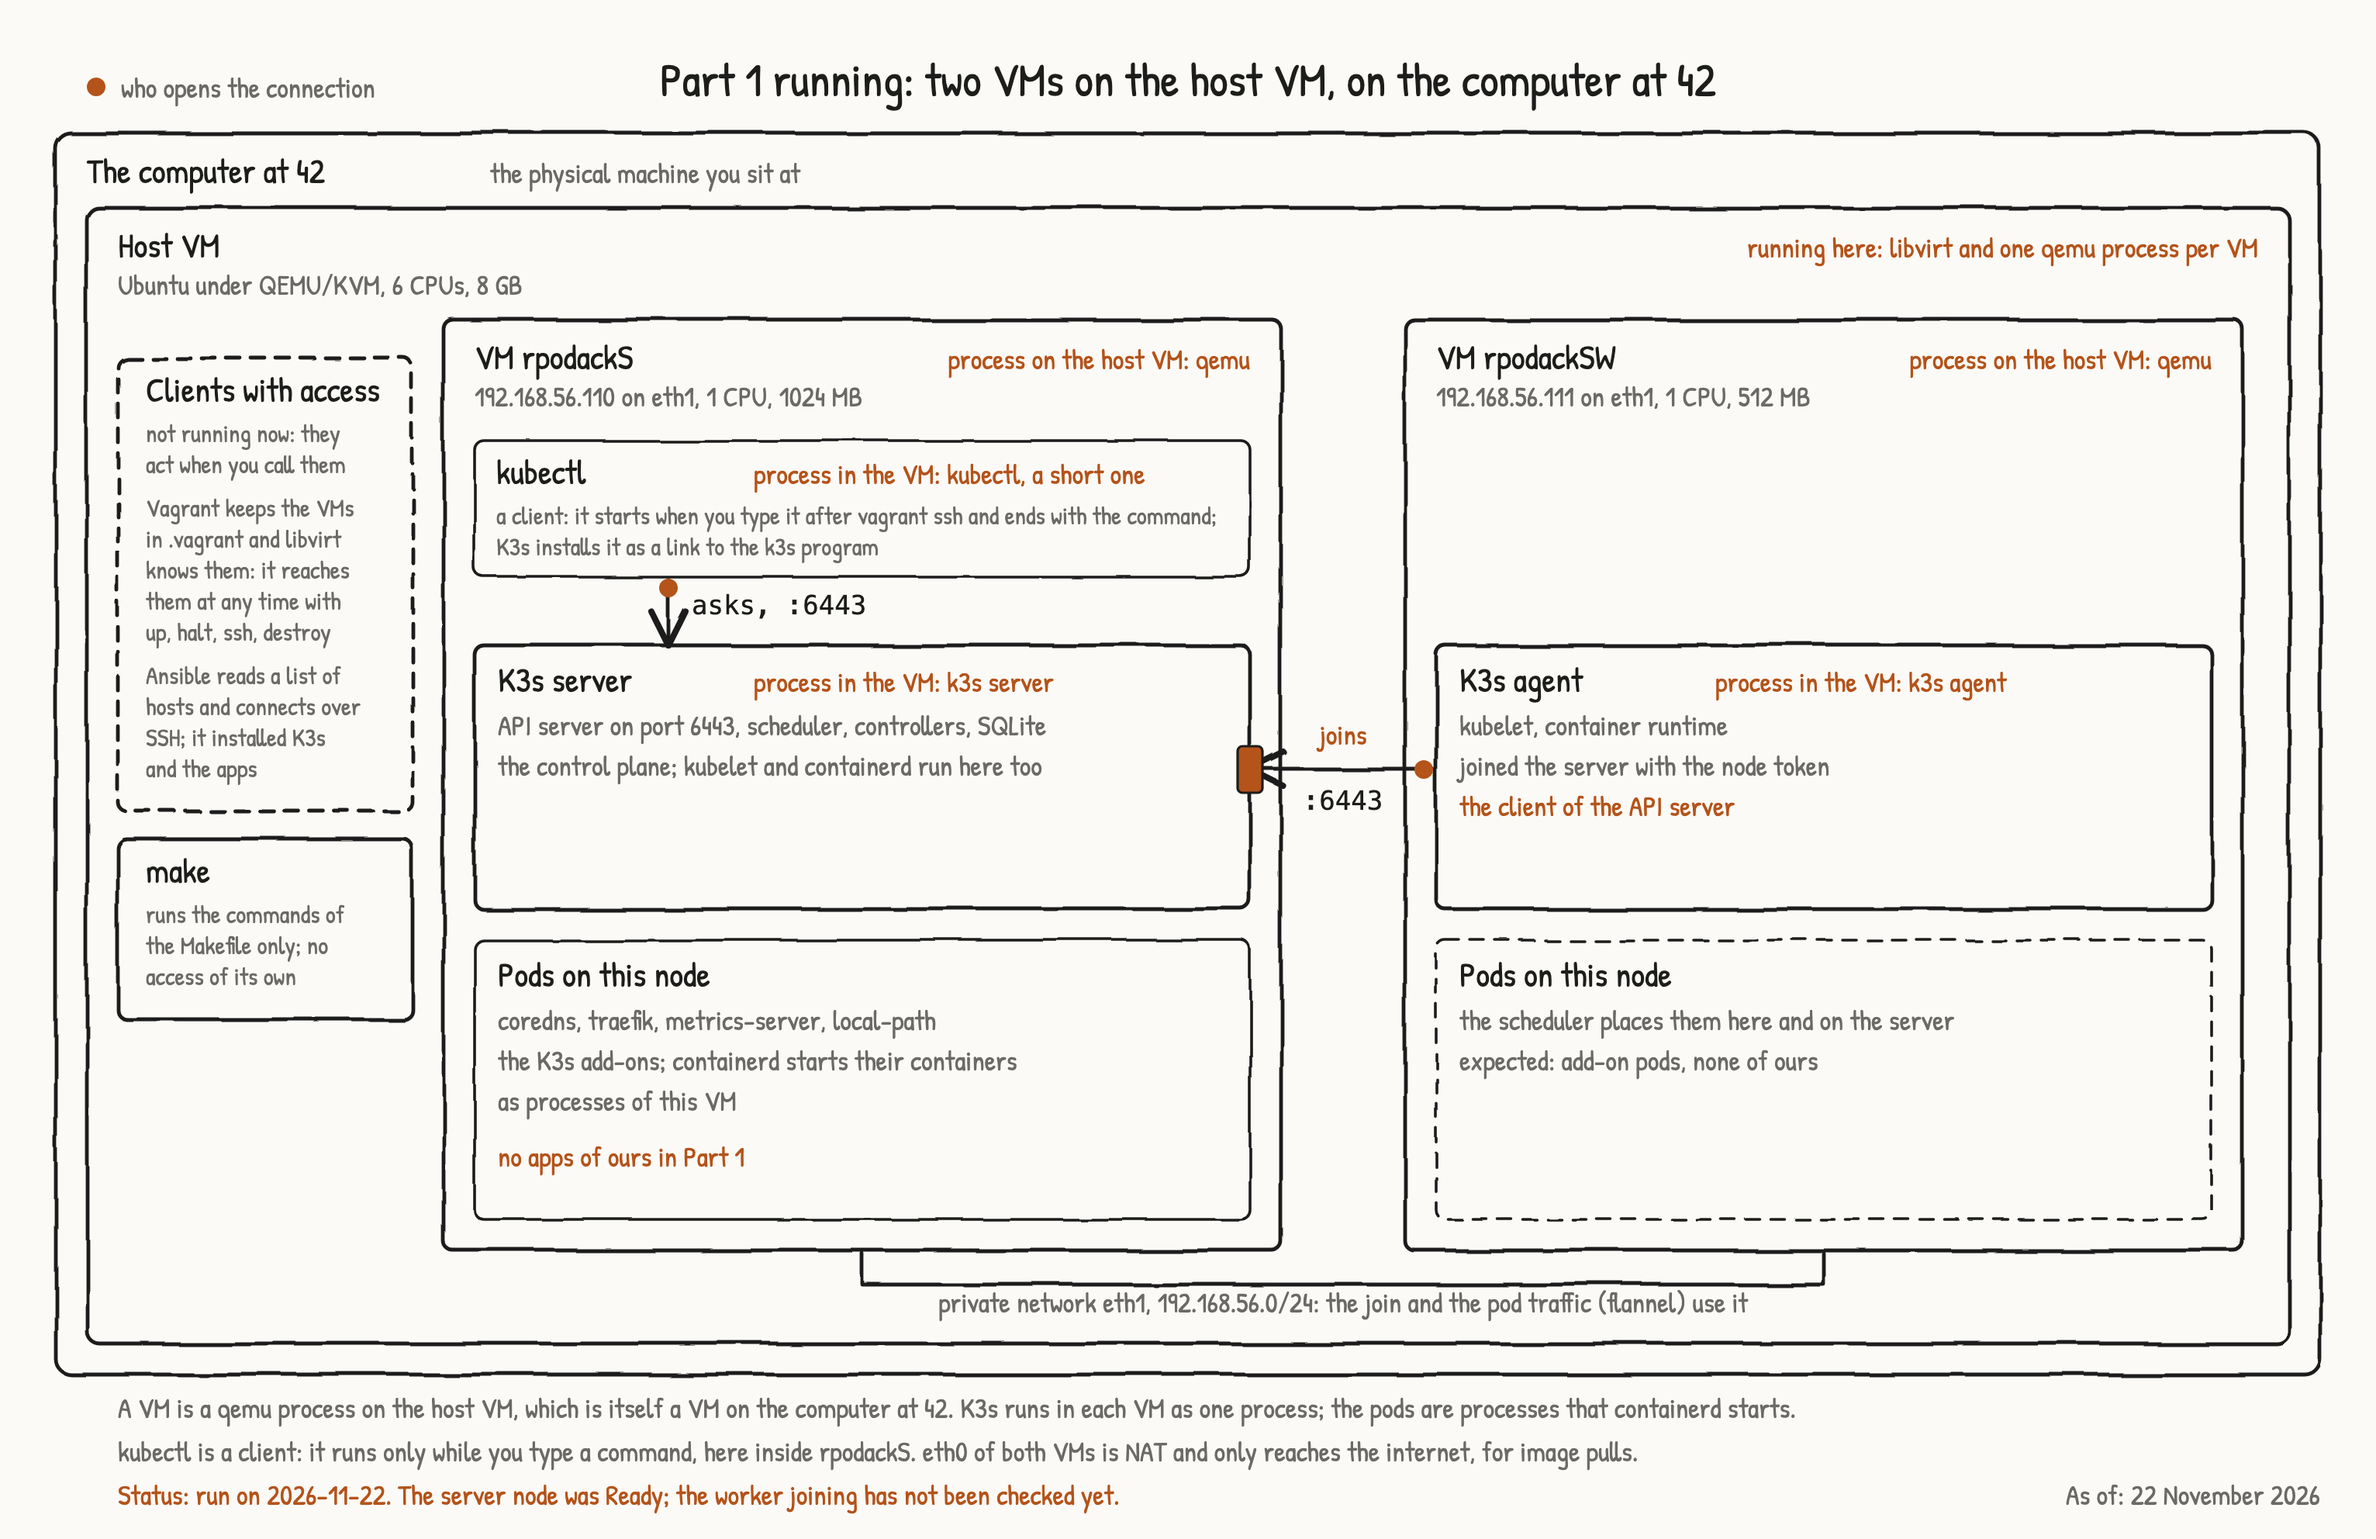
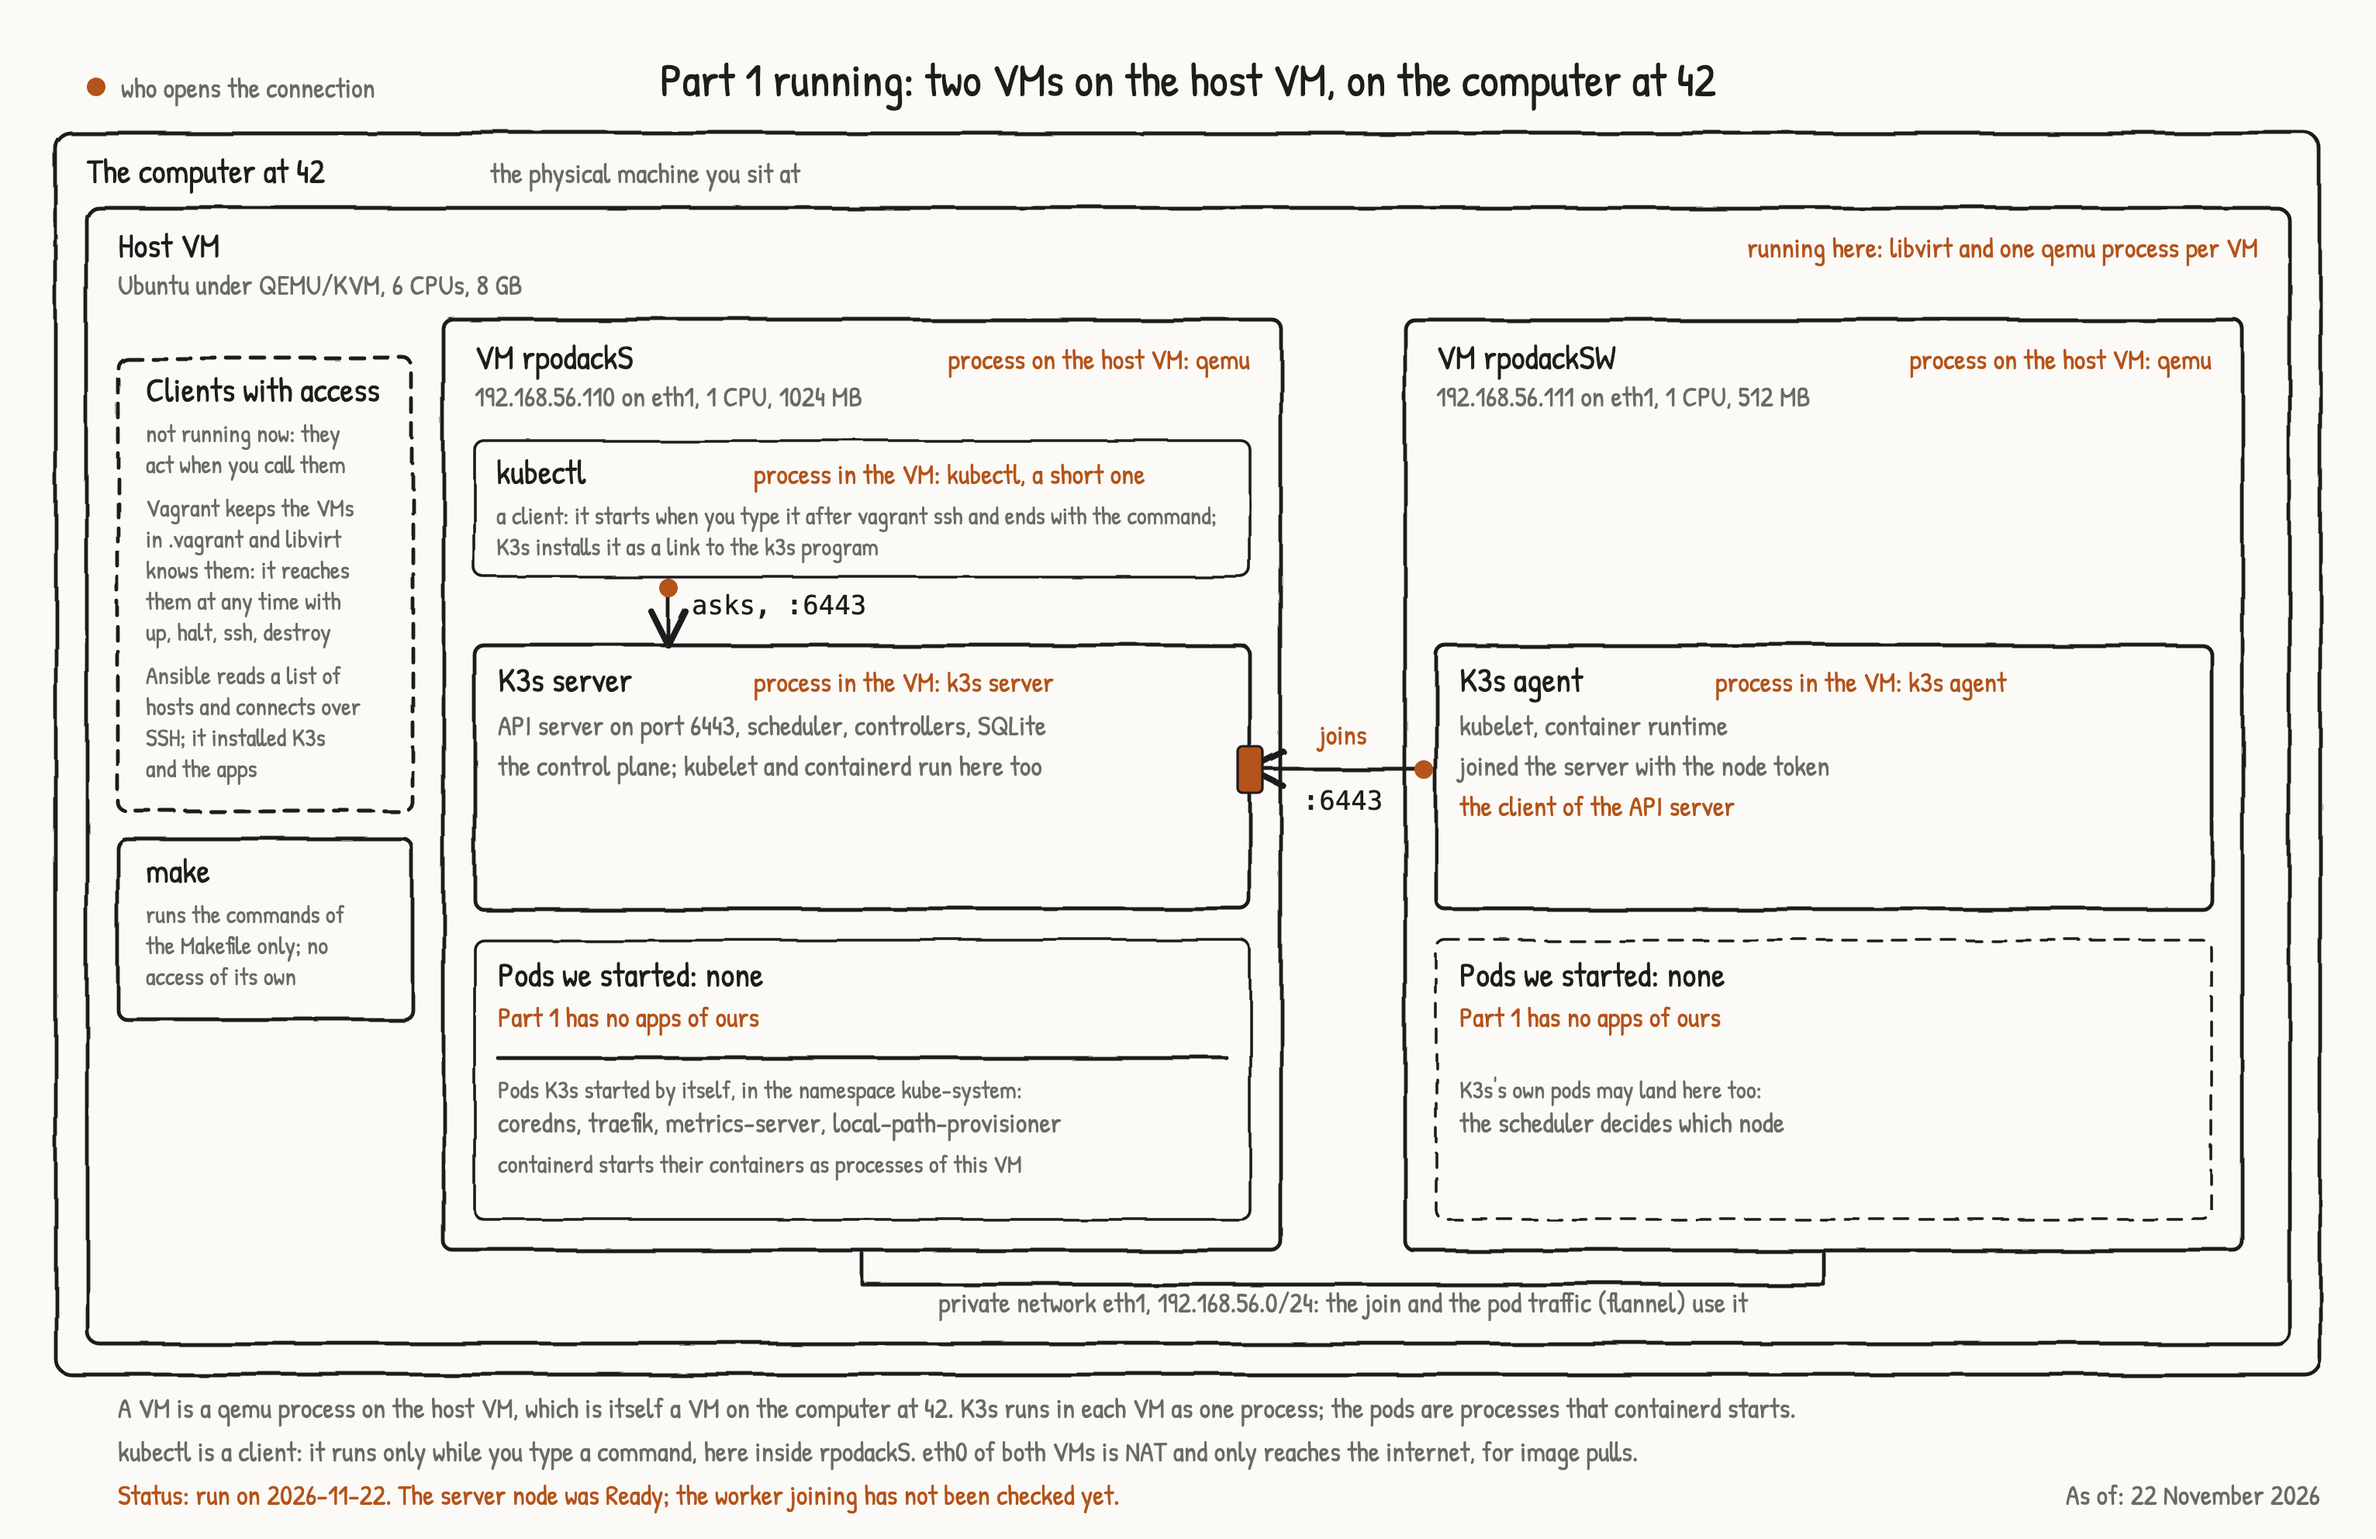
docs(deck): part 1 shows no pods of ours, the K3s pods apart

Changed region(s): [[0.217, 0.625, 0.4341, 0.7812], [0.6201, 0.625, 0.8061, 0.75]]

diff --git a/docs/lab/nesting/src/p1-running-sketch.html b/docs/lab/nesting/src/p1-running-sketch.html
@@ -59,6 +59,7 @@
     <rect x="290" y="268" width="500" height="88" rx="6" class="thin fill"/>
     <rect x="290" y="400" width="500" height="170" rx="6" class="line fill"/>
     <rect x="290" y="590" width="500" height="180" rx="6" class="thin fill"/>
+    <path d="M305,666 L775,666" class="line"/>
     <path d="M415,358 L415,398" class="line" marker-end="url(#arrow)"/>
     <rect x="890" y="190" width="540" height="600" rx="6" class="line fill"/>
     <rect x="910" y="400" width="500" height="170" rx="6" class="line fill"/>
@@ -103,11 +104,11 @@
   <text x="470" y="430" class="a">process in the VM: k3s server</text>
   <text x="305" y="458" class="s">API server on port 6443, scheduler, controllers, SQLite</text>
   <text x="305" y="484" class="s">the control plane; kubelet and containerd run here too</text>
-  <text x="305" y="620" class="t">Pods on this node</text>
-  <text x="305" y="648" class="s">coredns, traefik, metrics-server, local-path</text>
-  <text x="305" y="674" class="s">the K3s add-ons; containerd starts their containers</text>
-  <text x="305" y="700" class="s">as processes of this VM</text>
-  <text x="305" y="736" class="a">no apps of ours in Part 1</text>
+  <text x="305" y="620" class="t">Pods we started: none</text>
+  <text x="305" y="646" class="a">Part 1 has no apps of ours</text>
+  <text x="305" y="692" class="xs">Pods K3s started by itself, in the namespace kube-system:</text>
+  <text x="305" y="714" class="s">coredns, traefik, metrics-server, local-path-provisioner</text>
+  <text x="305" y="740" class="xs">containerd starts their containers as processes of this VM</text>
   <text x="430" y="380" class="mono">asks, :6443</text>
   <text x="910" y="222" class="t">VM rpodackSW</text>
   <text x="910" y="246" class="s">192.168.56.111 on eth1, 1 CPU, 512 MB</text>
@@ -117,9 +118,10 @@
   <text x="925" y="458" class="s">kubelet, container runtime</text>
   <text x="925" y="484" class="s">joined the server with the node token</text>
   <text x="925" y="510" class="a">the client of the API server</text>
-  <text x="925" y="620" class="t">Pods on this node</text>
-  <text x="925" y="648" class="s">the scheduler places them here and on the server</text>
-  <text x="925" y="674" class="s">expected: add-on pods, none of ours</text>
+  <text x="925" y="620" class="t">Pods we started: none</text>
+  <text x="925" y="646" class="a">Part 1 has no apps of ours</text>
+  <text x="925" y="692" class="xs">K3s&#x27;s own pods may land here too:</text>
+  <text x="925" y="714" class="s">the scheduler decides which node</text>
   <text x="850" y="464" class="a" text-anchor="middle">joins</text>
   <text x="850" y="506" class="mono" text-anchor="middle">:6443</text>
   <text x="850" y="830" class="s" text-anchor="middle">private network eth1, 192.168.56.0/24: the join and the pod traffic (flannel) use it</text>

diff --git a/docs/lab/nesting/tools/gen.py b/docs/lab/nesting/tools/gen.py
@@ -598,15 +598,15 @@ def part1_running():
     sk.box(290, 268, 500, 88, "thin"); sk.t(304, 296, "kubectl", "t"); sk.t(470, 296, "process in the VM: kubectl, a short one", "a"); sk.t(304, 322, "a client: it starts when you type it after vagrant ssh and ends with the command;", "xs"); sk.t(304, 342, "K3s installs it as a link to the k3s program", "xs")
     sk.box(290, 400, 500, 170, "line"); sk.t(305, 430, "K3s server", "t"); sk.t(470, 430, "process in the VM: k3s server", "a")
     sk.t(305, 458, "API server on port 6443, scheduler, controllers, SQLite", "s"); sk.t(305, 484, "the control plane; kubelet and containerd run here too", "s")
-    sk.box(290, 590, 500, 180, "thin"); sk.t(305, 620, "Pods on this node", "t"); sk.t(305, 648, "coredns, traefik, metrics-server, local-path", "s")
-    sk.t(305, 674, "the K3s add-ons; containerd starts their containers", "s"); sk.t(305, 700, "as processes of this VM", "s"); sk.t(305, 736, "no apps of ours in Part 1", "a")
+    sk.box(290, 590, 500, 180, "thin"); sk.t(305, 620, "Pods we started: none", "t"); sk.t(305, 646, "Part 1 has no apps of ours", "a")
+    sk.line("M305,666 L775,666", False, False); sk.t(305, 692, "Pods K3s started by itself, in the namespace kube-system:", "xs"); sk.t(305, 714, "coredns, traefik, metrics-server, local-path-provisioner", "s"); sk.t(305, 740, "containerd starts their containers as processes of this VM", "xs")
     sk.arrow(415, 358, 415, 398); sk.dot(415, 363); sk.t(430, 380, "asks, :6443", "mono")
     # VM 2
     sk.box(890, 190, 540, 600, "line"); sk.t(910, 222, "VM rpodackSW", "t"); sk.t(910, 246, "192.168.56.111 on eth1, 1 CPU, 512 MB", "s"); sk.t(1410, 222, "process on the host VM: qemu", "a", "end")
     sk.box(910, 400, 500, 170, "line"); sk.t(925, 430, "K3s agent", "t"); sk.t(1090, 430, "process in the VM: k3s agent", "a")
     sk.t(925, 458, "kubelet, container runtime", "s"); sk.t(925, 484, "joined the server with the node token", "s"); sk.t(925, 510, "the client of the API server", "a")
-    sk.box(910, 590, 500, 180, "thin", plan=True); sk.t(925, 620, "Pods on this node", "t"); sk.t(925, 648, "the scheduler places them here and on the server", "s")
-    sk.t(925, 674, "expected: add-on pods, none of ours", "s")
+    sk.box(910, 590, 500, 180, "thin", plan=True); sk.t(925, 620, "Pods we started: none", "t"); sk.t(925, 646, "Part 1 has no apps of ours", "a")
+    sk.t(925, 692, "K3s's own pods may land here too:", "xs"); sk.t(925, 714, "the scheduler decides which node", "s")
     # the join
     sk.arrow(908, 480, 792, 480); sk.dot(902, 480); sk.t(850, 464, "joins", "a", "middle"); sk.t(850, 506, ":6443", "mono", "middle"); sk.door(790, 480)
     # the private network
